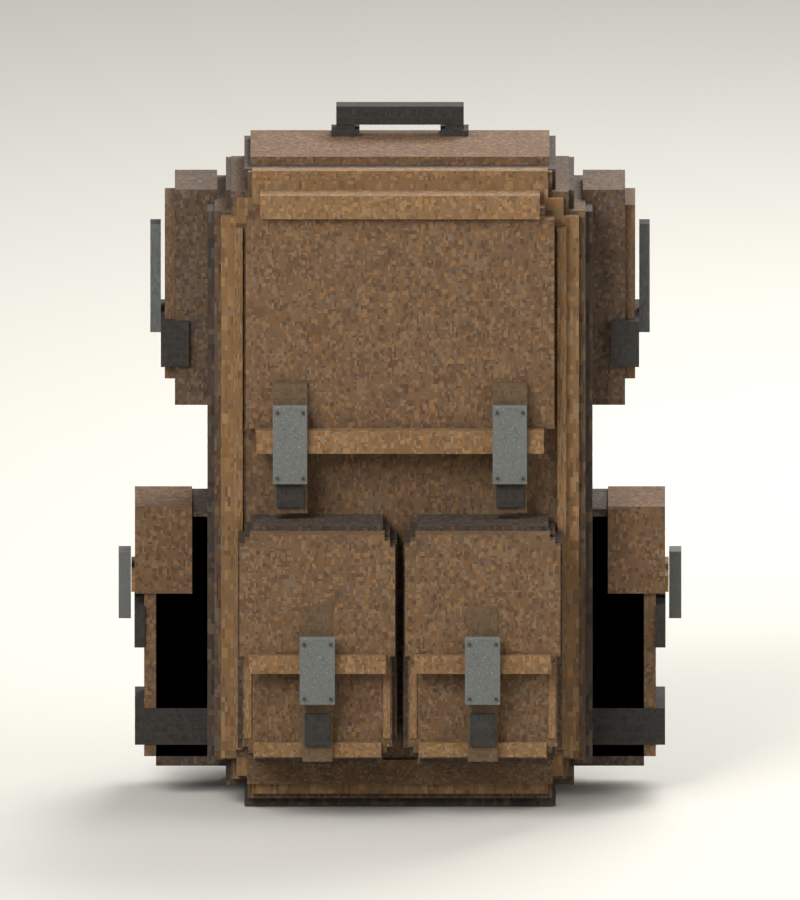
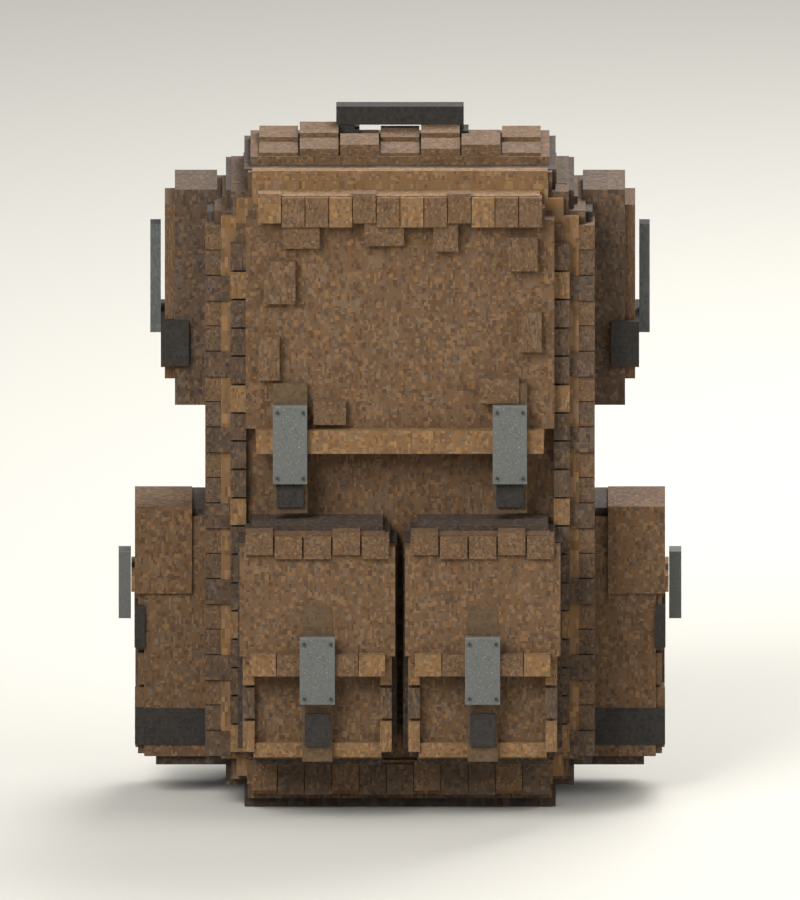
chore(project): revise project: 3 project files
Modified: 3.
Text lines: +64 / -3; binary files: 2.
- Modify: "blender/characters/soldier/assets/backpack_v001/build_backpack.py"
- Modify: "blender/characters/soldier/assets/backpack_v001/renders/Front.png" (binary)
- Modify: "blender/characters/soldier/assets/backpack_v001/renders/Front_3Q.png" (binary)

diff --git a/blender/characters/soldier/assets/backpack_v001/build_backpack.py b/blender/characters/soldier/assets/backpack_v001/build_backpack.py
@@ -135,7 +135,10 @@ box('bottom front canvas hem',(0,-.180,.065),(.348,.023,.024),'canvas_warm')
 for sign in [-1,1]:
     x=sign*.200
     box('vertical rounded edge '+str(sign),(x,-.137,.346),(.022,.064,.527),'canvas_side')
-    box('front perimeter stitch '+str(sign),(sign*.184,-.187,.345),(.010,.010,.516),'canvas_edge')
+    # Individual broad voxel stitch/piping blocks, rather than a long smooth rail.
+    for i in range(18):
+        z=.099+i*.028
+        box('voxel perimeter stitch '+str(sign),(sign*.184,-.190-(i%3==0)*.003,z),(.018,.016,.026),'canvas_edge' if i%4==0 else 'canvas_side')
 
 # Broad top flap and its paired dark webbing / silver closure tabs.
 stepped('large top flap',0,.386,.351,.251,-.190,-.218,.022,'canvas_flap')
@@ -154,7 +157,8 @@ for sign in [-1,1]:
     stepped('front pouch body '+str(sign),x,.090,.170,.220,-.190,-.285,.012,'canvas_warm')
     box('pouch lower piping '+str(sign),(x,-.289,.100),(.145,.014,.014),'canvas_edge')
     stepped('front pouch flap '+str(sign),x,.182,.177,.132,-.267,-.305,.012,'canvas_flap')
-    box('pouch flap folded hem '+str(sign),(x,-.309,.187),(.156,.013,.018),'canvas_edge')
+    for i in range(5):
+        box('pouch voxel folded hem '+str(sign),(x+(i-2)*.031,-.313,.187),(.030,.020,.021),'canvas_edge' if i%2==0 else 'canvas_warm')
     box('pouch long closure '+str(sign),(x,-.297,.167),(.034,.018,.154),'webbing_brown')
     box('pouch closure plate '+str(sign),(x,-.322,.182),(.040,.014,.066),'buckle_plate',True,True)
     box('pouch closure tail '+str(sign),(x,-.304,.122),(.029,.016,.032),'leather')
@@ -176,7 +180,7 @@ for sign in [-1,1]:
     box('upper compression band '+str(sign),(sign*.256,-.004,.475),(.032,.170,.044),'leather')
     box('side upper steel guide '+str(sign),(sign*.278,-.001,.531),(.012,.037,.107),'steel',True)
     box('side lower guide tail '+str(sign),(sign*.266,-.001,.464),(.012,.023,.044),'steel_edge',True)
-    box('lower side pocket shadow '+str(sign),(sign*.237,.001,.183),(.081,.155,.254),'canvas_shadow')
+    box('lower side pocket shadow '+str(sign),(sign*.237,.011,.183),(.081,.155,.254),'canvas_shadow')
     box('lower side pocket '+str(sign),(sign*.255,-.004,.184),(.072,.145,.237),'canvas_warm')
     box('side pocket flap '+str(sign),(sign*.269,-.004,.270),(.065,.155,.086),'canvas_flap')
     box('side pocket flap edge '+str(sign),(sign*.299,-.004,.236),(.013,.145,.016),'canvas_edge')
@@ -210,6 +214,63 @@ for sign in [-1,1]:
     box('handle mount '+str(sign),(sign*.062,.057,.660),(.032,.046,.020),'leather')
     box('handle upright '+str(sign),(sign*.062,.057,.673),(.021,.032,.025),'leather')
 box('top carry handle',(0,.057,.684),(.145,.035,.018),'leather')
+
+# Reference-specific voxel sculpt: chunky stepped cloth corners, folded pocket
+# lips, small raised fabric blocks and segmented straps. These are canvas/belt
+# construction details, not new accessories or fine geometric noise.
+for sign in [-1,1]:
+    for i in range(21):
+        z=.092+i*.025
+        inset=max(0,z-.596)*.9
+        x=sign*(.207-inset)
+        box('stepped shell corner block',(x,-.143-(i%3==0)*.005,z),(.029,.072,.024),['canvas_side','canvas','canvas_warm'][i%3])
+    # Small broad square blocks along both shoulders of the canvas shell.
+    for i in range(4):
+        box('voxel upper shoulder',(sign*(.183-i*.012),-.037,.612+i*.012),(.038,.159-i*.010,.025),'canvas_side' if i%2 else 'canvas_warm')
+    # Raised fabric quads on the outside of each lower side pocket.
+    for i in range(6):
+        z=.083+i*.034
+        for j in range(3):
+            y=-.048+j*.047
+            box('side pouch voxel edging',(sign*(.292+(i+j)%2*.003),y,z),(.012,.044,.031),'canvas_warm' if (i+j)%3 else 'canvas_side')
+    # Segmented padding is visible from the rear and along the shoulder loop.
+    for i in range(13):
+        box('back padding voxel segment',(sign*.122,.184,.128+i*.038),(.058,.021,.035),'canvas_warm' if i%3 else 'webbing_brown')
+    path=[(.119,.633),(.174,.602),(.228,.536),(.266,.432),(.278,.307),(.252,.205),(.201,.135),(.118,.104)]
+    for segment in range(len(path)-1):
+        a=Vector(path[segment]);b=Vector(path[segment+1]);n=max(1,round((b-a).length/.028))
+        for i in range(n):
+            t0=(i+.045)/n;t1=(i+.955)/n
+            ribbon('voxel shoulder pad '+str(sign),sign*.135,[a.lerp(b,t0),a.lerp(b,t1)],.064,.038,'canvas_side' if segment<4 else 'leather')
+    for dx in [-1,1]:
+        for dz in [-1,1]:
+            box('back buckle square corner',(sign*.122+dx*.029,.320,.344+dz*.029),(.012,.004,.012),'steel_edge',True)
+
+# A coarse, staggered canvas crown, with hard voxel ledges around its perimeter.
+for i in range(7):
+    x=(i-3)*.046
+    for j in range(2):
+        y=-.069+j*.089
+        box('top canvas voxel fold',(x,y,.658+((i+j)%3)*.004),(.044,.086,.018),'canvas_flap' if (i+j)%3 else 'canvas_warm')
+for i in range(12):
+    x=(i-5.5)*.027
+    box('top flap voxel edge',(x,-.224,.624+((i%4)==0)*.004),(.026,.027,.029),'canvas_flap' if i%3 else 'canvas_edge')
+for i in range(11):
+    box('bottom canvas voxel edge',((i-5)*.031,-.176,.058+(i%3==0)*.004),(.030,.038,.030),'canvas_side' if i%3 else 'canvas_warm')
+
+# Sparse shallow square fabric breaks leave the broad face readable, as in the
+# supplied sheet. Their relief is 4–9mm after the depth calibration below.
+for x,z,w,h in [(-.137,.554,.036,.042),(-.112,.600,.041,.024),(-.149,.479,.024,.043),
+                 (.140,.582,.033,.033),(.148,.505,.026,.039),(.113,.447,.045,.025),
+                 (-.080,.425,.037,.023),(-.018,.603,.045,.025),(.052,.601,.028,.032)]:
+    box('raised voxel fabric patch',(x,-.224,z),(w,.018,h),'canvas_warm')
+for sign in [-1,1]:
+    x=sign*.094
+    for i in range(5):
+        box('pocket top voxel fold',(x+(i-2)*.033,-.293,.302+((i%3)==0)*.004),(.031,.037,.022),'canvas_flap' if i%2 else 'canvas_warm')
+    for edge in [-1,1]:
+        for i in range(5):
+            box('pocket side voxel seam',(x+edge*.078,-.290,.114+i*.033),(.013,.021,.030),'canvas_side' if i%2 else 'canvas_edge')
 
 # Reference side silhouette is relatively compact; retain real depth with broad straps.
 vertices=[(x*.85,y*.60,z) for x,y,z in vertices]
